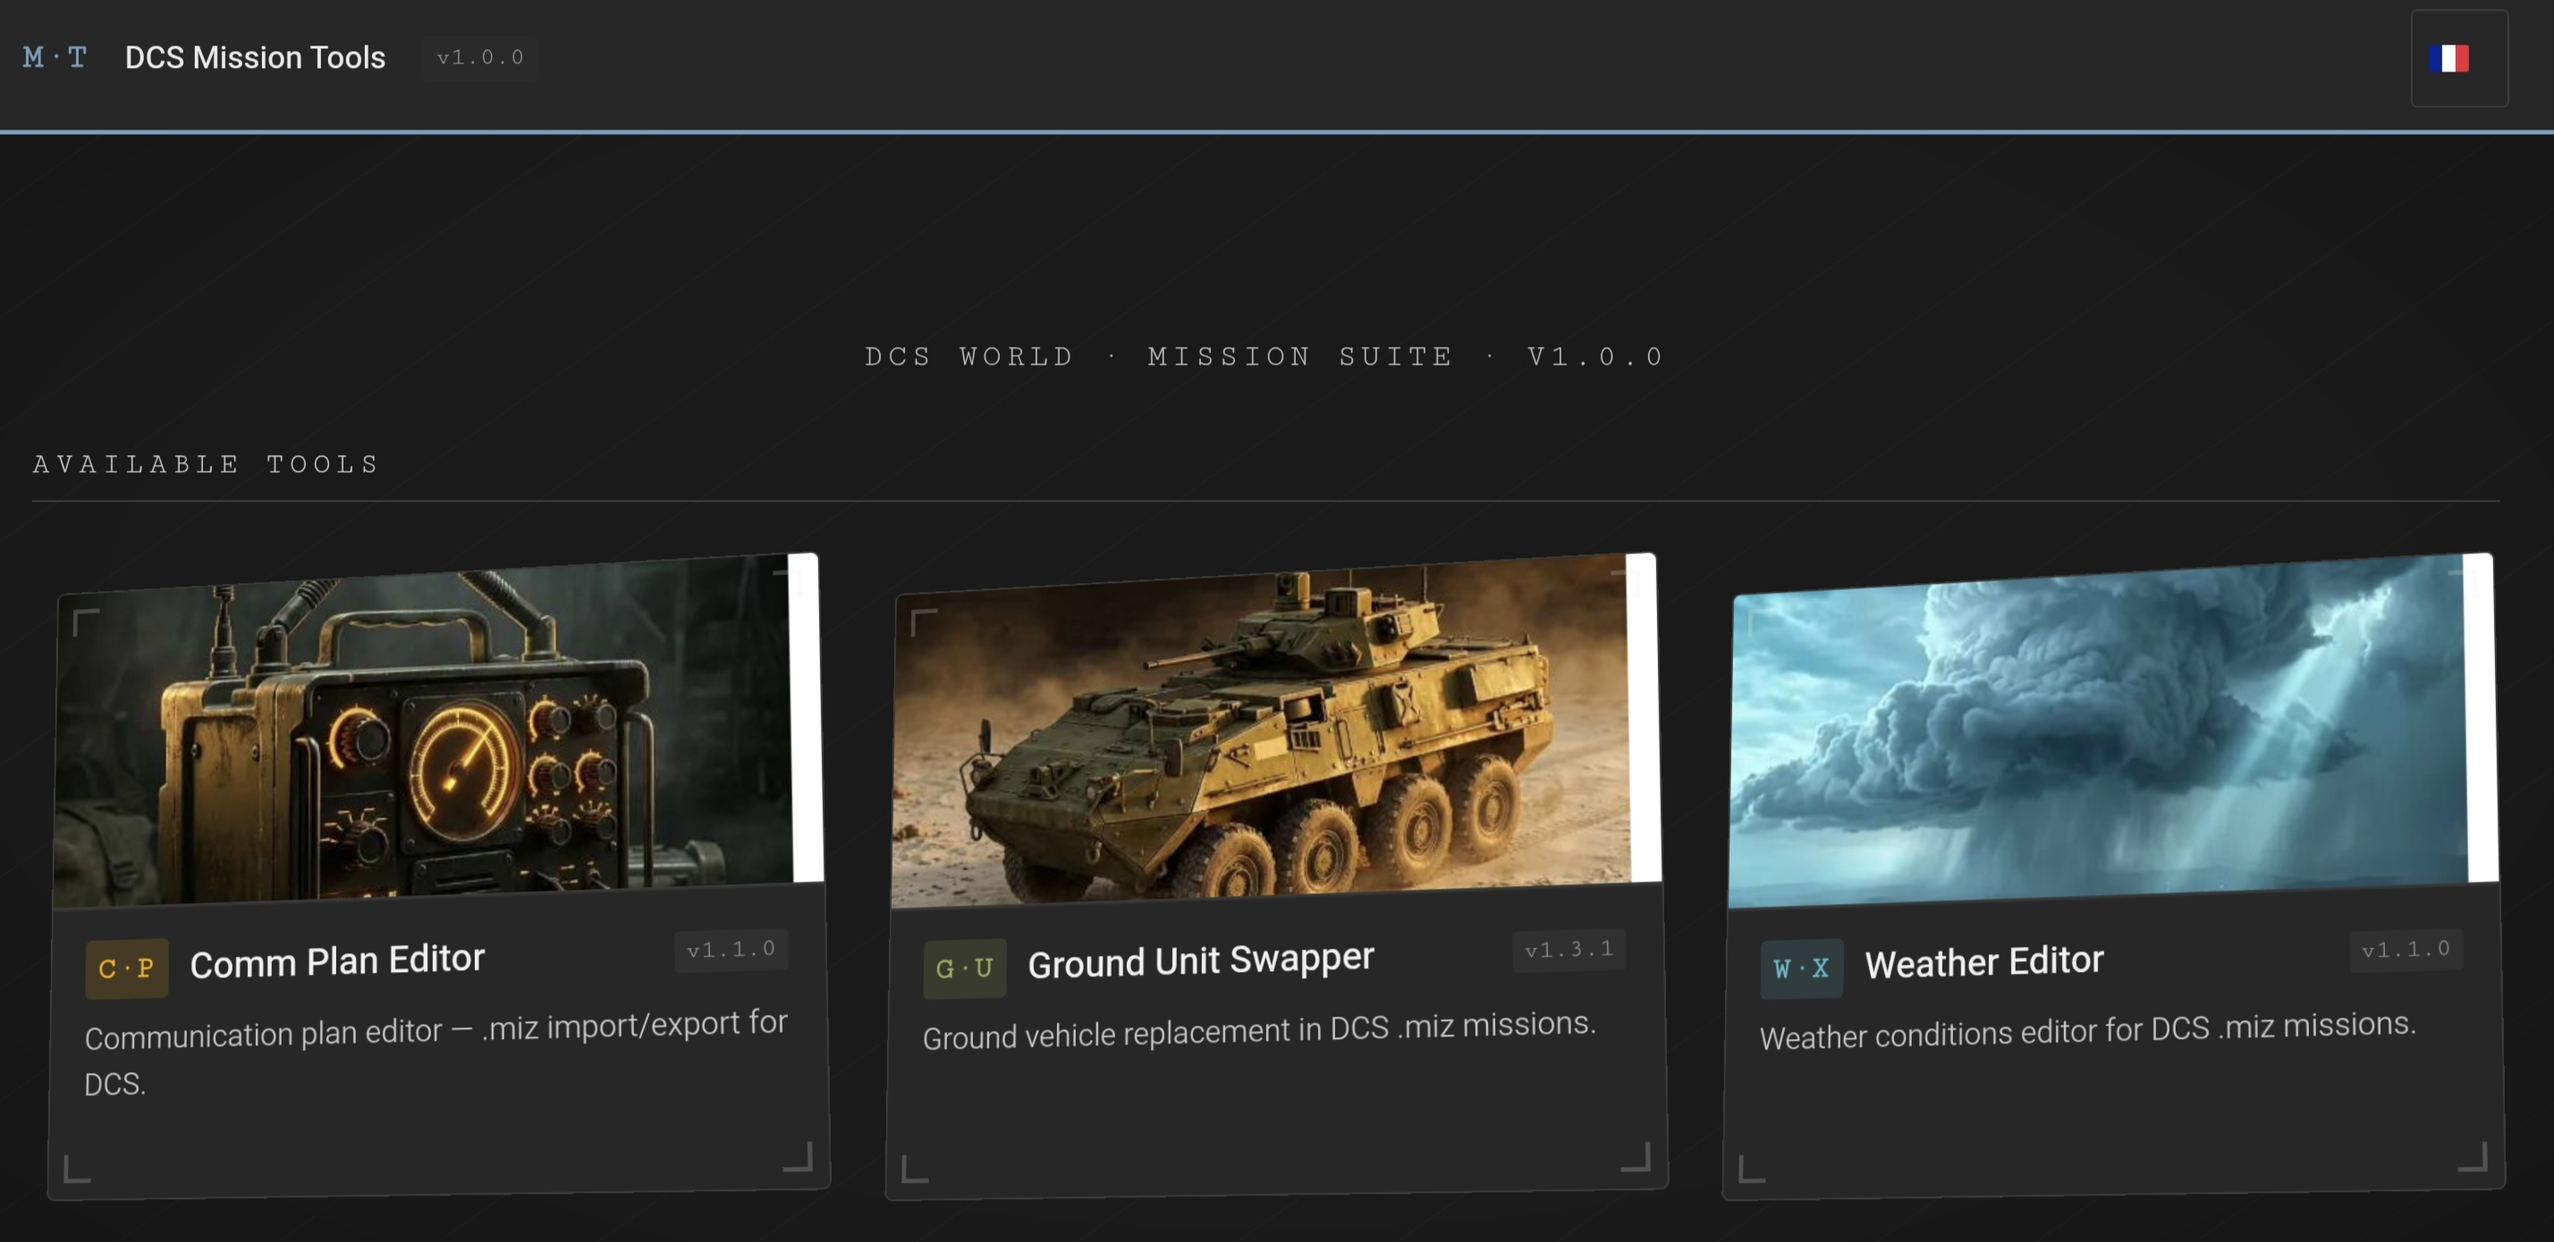
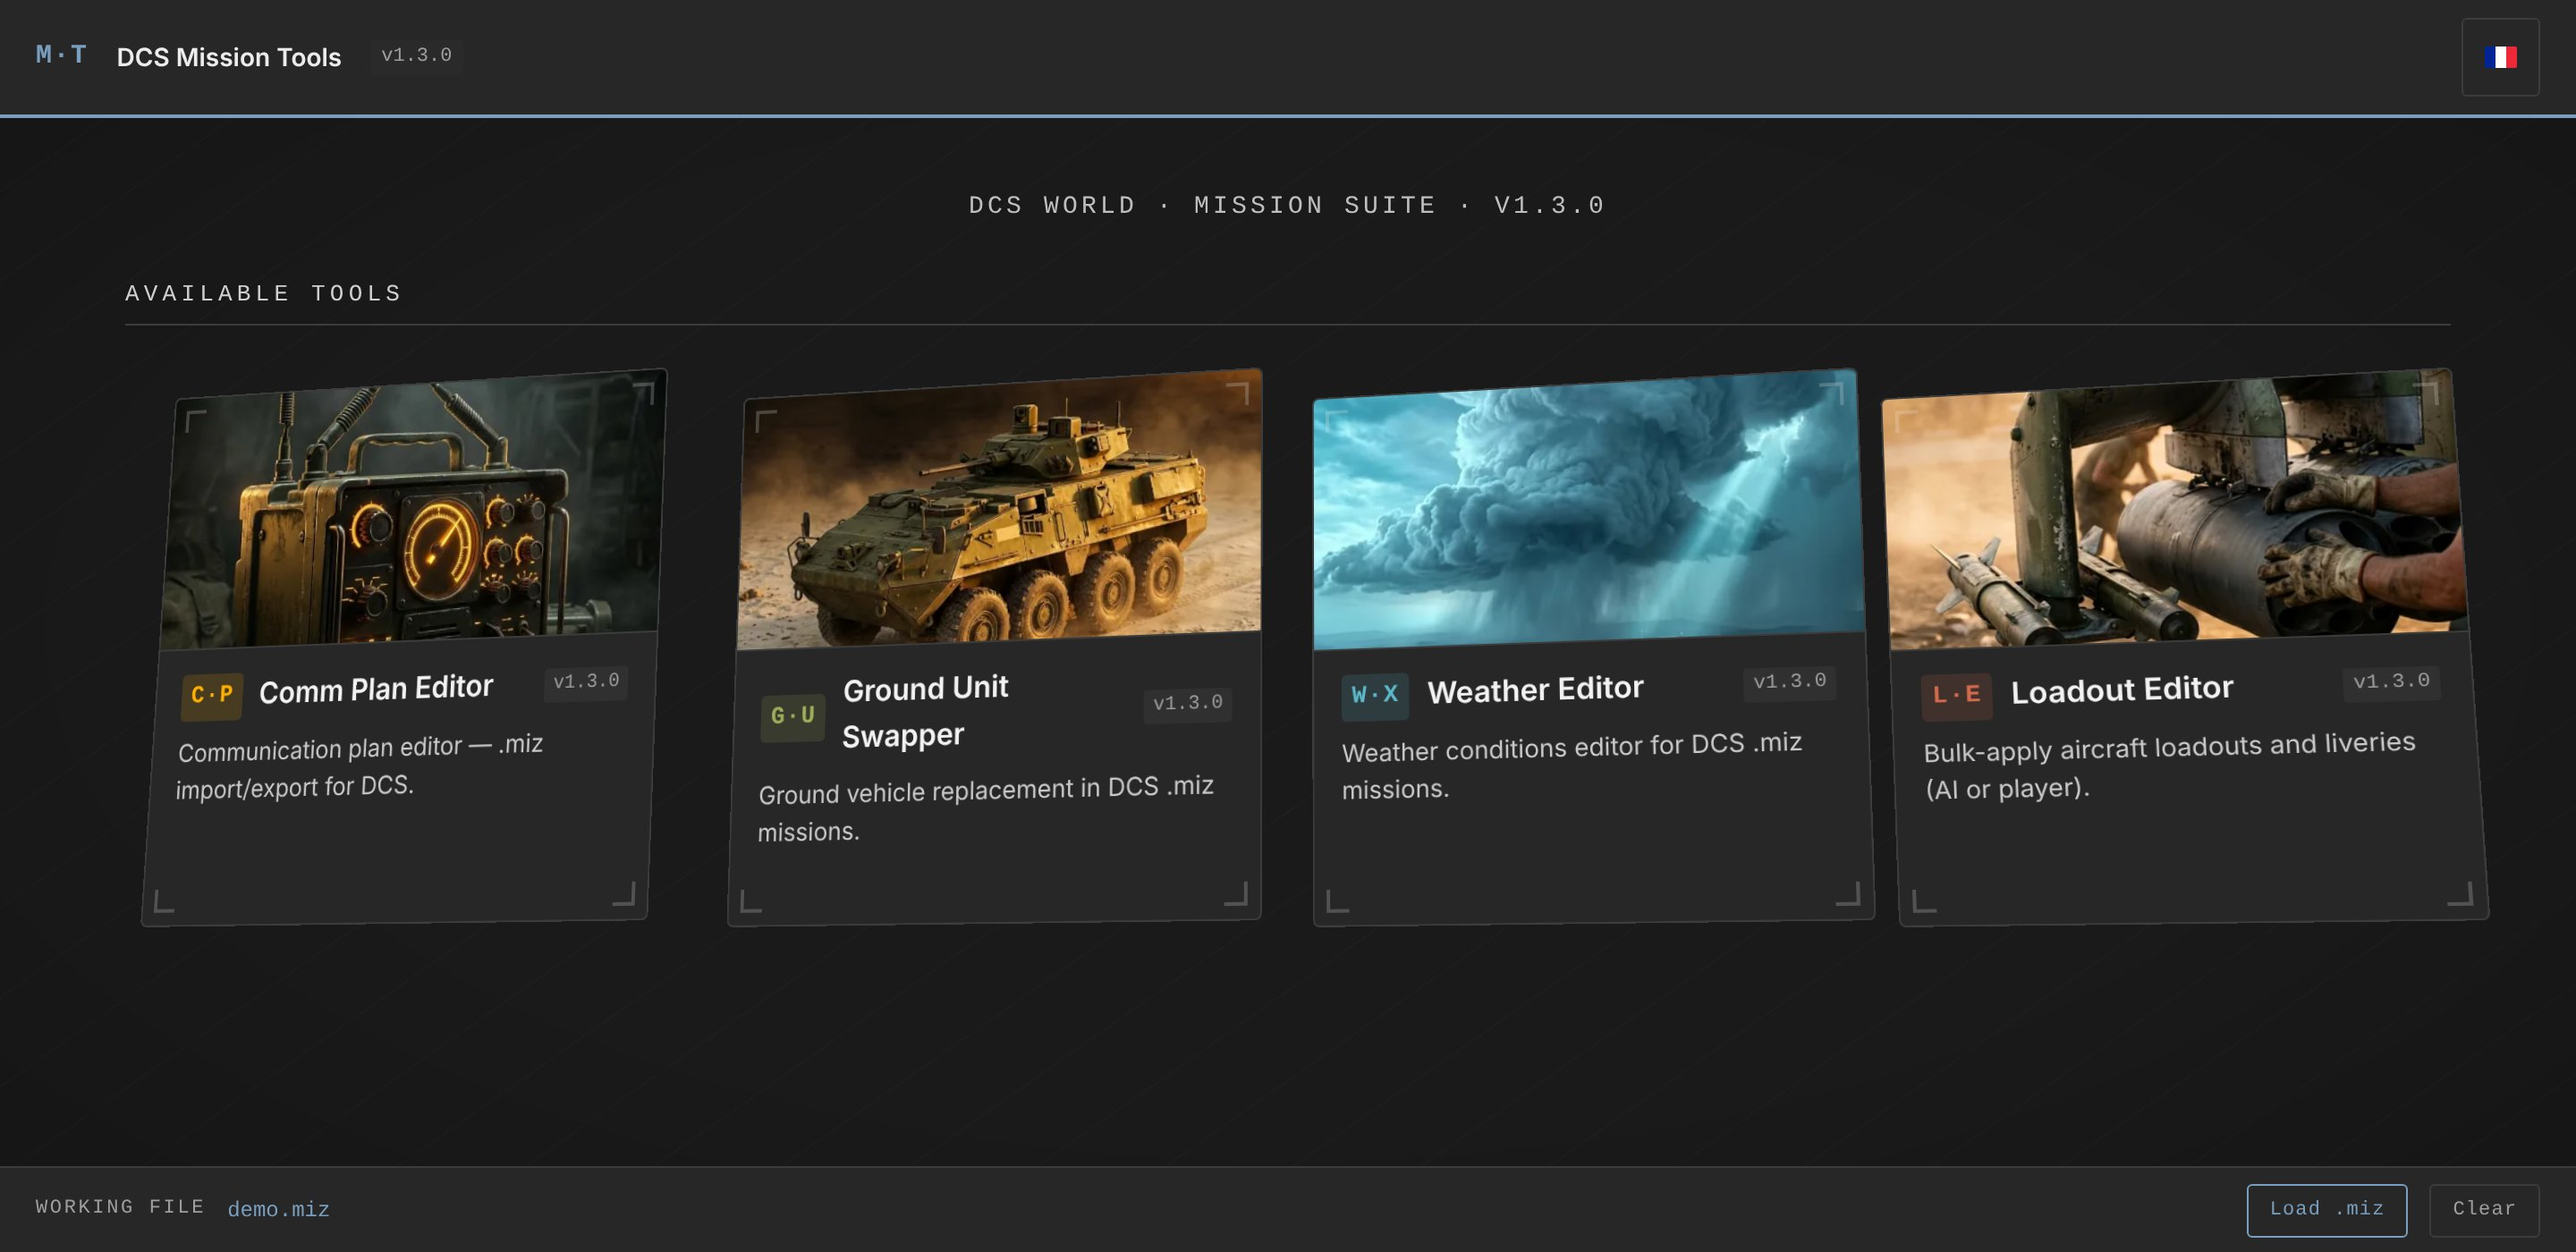
README : image principale a jour (v1.3.0) et six captures sur une mission de demonstration
Claude-Session: https://claude.ai/code/session_01EKzrjL7S5b2ut2S4imRqNX

diff --git a/README.md b/README.md
@@ -97,13 +97,31 @@ The Loadout Editor **applies a loadout that already exists in the mission** — 
 
 ## 📸 Screenshots
 
-![landing](docs/screenshots/landing.png)
+**The board** — four editors on one offline page, FR/EN
 
-![comm-plan-editor](docs/screenshots/comm_plan_editor.png)
+![board](docs/screenshots/landing.jpg)
 
-![ground-unit-swapper](docs/screenshots/ground_unit_swapper.png)
+**Comm Plan Editor** — every flight's radios and presets, channels numbered as in the cockpit
 
-![weather-editor](docs/screenshots/weather_editor.png)
+![comm-plan-editor](docs/screenshots/comm_plan_editor.jpg)
+
+**Ground Unit Swapper** — filter by coalition, group and family, then swap types and skill in bulk
+
+![ground-unit-swapper](docs/screenshots/ground_unit_swapper.jpg)
+
+**Weather Editor** — date and time, wind layers, clouds and precipitation, 34 presets
+
+![weather-editor](docs/screenshots/weather_editor.jpg)
+
+**Loadout Editor** — loadouts by letter, settings and livery applied to the selection in one click
+
+![loadout-editor](docs/screenshots/loadout_editor.jpg)
+
+**Loadout Editor · Compose a loadout** — station by station, on a front view of the aircraft
+
+![loadout-composer](docs/screenshots/loadout_composer.jpg)
+
+<sub>Front-view drawing: Goldwolf, DCS Reference Guide — used with permission, not covered by the MIT licence. Screenshots taken on a generic demo mission.</sub>
 
 ## 🚀 Quick Start
 
